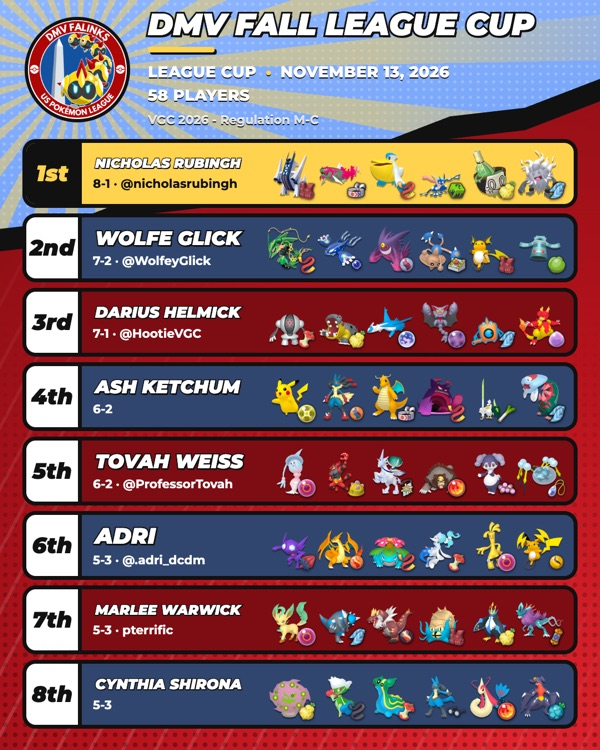
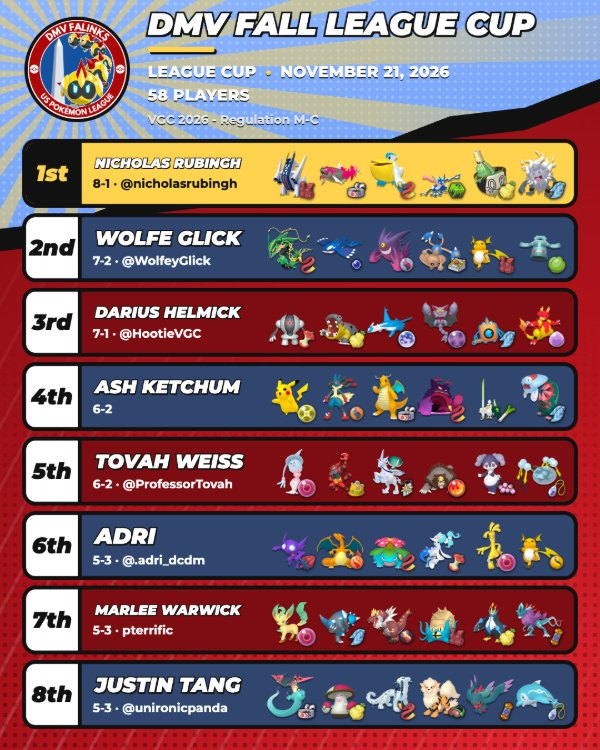
Sample: Justin Tang's Fort Wayne 2023 team in 8th, new home preview image
8th place in the sample tournament is now Justin Tang (@unironicpanda) with
his 2023 Fort Wayne Regional-winning team (Dragapult, Amoonguss, Chien-Pao,
Arcanine, Flutter Mane, Palafin), replacing Cynthia's BDSP team. The home
page's generator preview (Comic Book Top Cut of the sample) is re-rendered
to match.

diff --git a/src/lib/sample.ts b/src/lib/sample.ts
@@ -23,11 +23,11 @@ const TEAMS: Mon[][] = [
   t(['sableye', 'roseli-berry'], ['charizard', 'charizardite-y'], ['venusaur', 'focus-sash'], ['primarina', 'leftovers'], ['gholdengo', 'life-orb'], ['raichu', 'raichunite-y']),
   // Marlee Warwick's team (Tyrantrum is shiny in her list; the maker has no shiny sprites).
   t(['leafeon', 'life-orb'], ['rampardos', 'choice-scarf'], ['tyrantrum', 'delphoxite'], ['omastar', 'assault-vest'], ['empoleon', 'sitrus-berry'], ['walking-wake', 'booster-energy']),
-  // Cynthia's first Champion battle in Brilliant Diamond / Shining Pearl, with her held items (Serebii); her Gastrodon is East Sea.
-  t(['spiritomb', 'sitrus-berry'], ['roserade', 'expert-belt'], ['gastrodon-east', 'leftovers'], ['lucario', 'wise-glasses'], ['milotic', 'flame-orb'], ['garchomp', 'yache-berry']),
+  // Justin Tang's 2023 Fort Wayne Regional-winning team (Regulation C; Reportworm standings, 2023/fort-wayne).
+  t(['dragapult', 'choice-band'], ['amoonguss', 'sitrus-berry'], ['chien-pao', 'focus-sash'], ['arcanine', 'safety-goggles'], ['flutter-mane', 'booster-energy'], ['palafin-zero', 'mystic-water']),
 ]
 
-const NAMES = ['Nicholas Rubingh', 'Wolfe Glick', 'Darius Helmick', 'Ash Ketchum', 'Tovah Weiss', 'Adri', 'Marlee Warwick', 'Cynthia Shirona']
+const NAMES = ['Nicholas Rubingh', 'Wolfe Glick', 'Darius Helmick', 'Ash Ketchum', 'Tovah Weiss', 'Adri', 'Marlee Warwick', 'Justin Tang']
 const RECORDS = ['8-1', '7-2', '7-1', '6-2', '6-2', '5-3', '5-3', '5-3']
 
 export const sampleState = (): AppState => {
@@ -44,7 +44,7 @@ export const sampleState = (): AppState => {
       uid: crypto.randomUUID(),
       name: NAMES[i],
       record: RECORDS[i],
-      social: ['@nicholasrubingh', '@WolfeyGlick', '@HootieVGC', '', '@ProfessorTovah', '@.adri_dcdm', 'pterrific'][i] ?? '',
+      social: ['@nicholasrubingh', '@WolfeyGlick', '@HootieVGC', '', '@ProfessorTovah', '@.adri_dcdm', 'pterrific', '@unironicpanda'][i] ?? '',
       team,
     })),
   }
